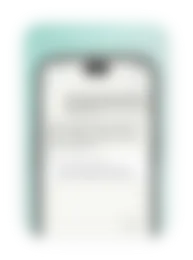
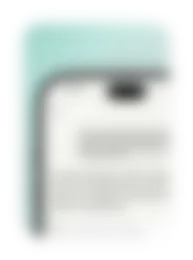
Tool Use thumbnail: the phone's top-left corner close up, its right side off the cover
Claude-Session: https://claude.ai/code/session_01KWunyGjQtk3sCnGrUXUHPS

Changed region(s): [[0.1554, 0.1846, 0.9016, 0.9231], [0.1554, 0.5846, 0.7461, 0.8923], [0.4352, 0.5231, 0.7461, 0.6154]]

diff --git a/src/content/work/research.md b/src/content/work/research.md
@@ -15,7 +15,7 @@ cover:
     mp4: images/work/research-8.mp4
     poster: images/work/research-8.jpg
     start: 29
-    rest: [0.5, 0.3, 1.4]   # thumbnail: searching Slack at 0:29, the phone low with teal above it
+    rest: [0.34, 0.16, 2.1]   # thumbnail: at 0:29, the phone's top-left corner and island close up, teal above, its right side off the cover
     # [seconds, x, y, zoom]: held shots on each step (typing the request, the
     # reply, each tool call, the summary), with the whole phone at the start
     # and end so the loop is seamless.
